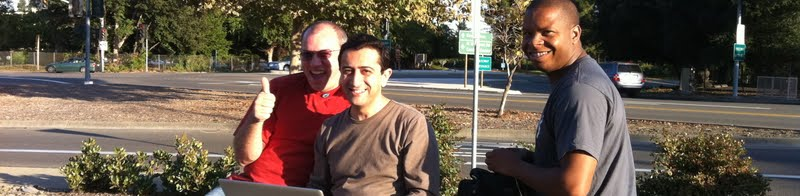
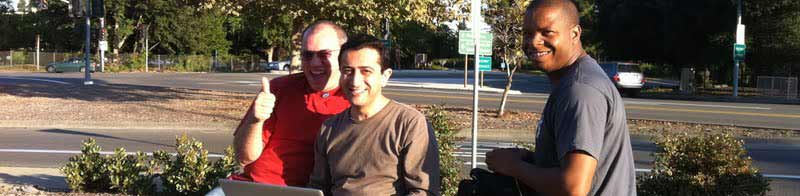
Performance improvements

Changed region(s): [[0.4062, 0.0, 0.4375, 0.0306]]

diff --git a/templates/index.html b/templates/index.html
@@ -71,7 +71,7 @@ jQuery(document).ready(function() {
     <div id="mycarousel" style="overflow:hidden">
     <ul style="overflow:none">
         <li>
-            <img width="960" height="235" src="static/images/hero-image.png" alt="" />
+            <img width="960" height="235" src="static/images/hero1.jpeg" alt="" />
             <div class="hero-caption">Group hack day, March 11, 2010</div>
         </li>
         <li>
@@ -95,7 +95,7 @@ jQuery(document).ready(function() {
             <div class="hero-caption">Our Official Policy Bear Meeting</div>
         </li>
         <li>
-            <img width="960" height="235" src="static/images/hero7.png" alt="" />
+            <img width="960" height="235" src="static/images/hero7.jpg" alt="" />
             <div class="hero-caption">Designing a TARDIS - wanna help?</div>
         </li>
     </ul>
@@ -163,7 +163,7 @@ jQuery(document).ready(function() {
 		  </div>
 			<h3>Visit Us</h3>
 				
-				<p><img src="static/images/vertical-stripe-long.png" class="p-border"> <img height="175" width="288"  src="static/images/map.png" class="image-border map">We're located at 140A South Whisman Road in Mountain View, CA. Our phone number is
+				<p><img src="static/images/vertical-stripe-long.png" class="p-border"> <img height="175" width="288"  src="static/images/map.gif" class="image-border map">We're located at 140A South Whisman Road in Mountain View, CA. Our phone number is
 (650) 898-7925, and you can <a href="/Contact">contact us</a> or <a href="https://twitter.com/#!/hackerdojo">follow us on Twitter</a>.</p>
 		</section>
 		
